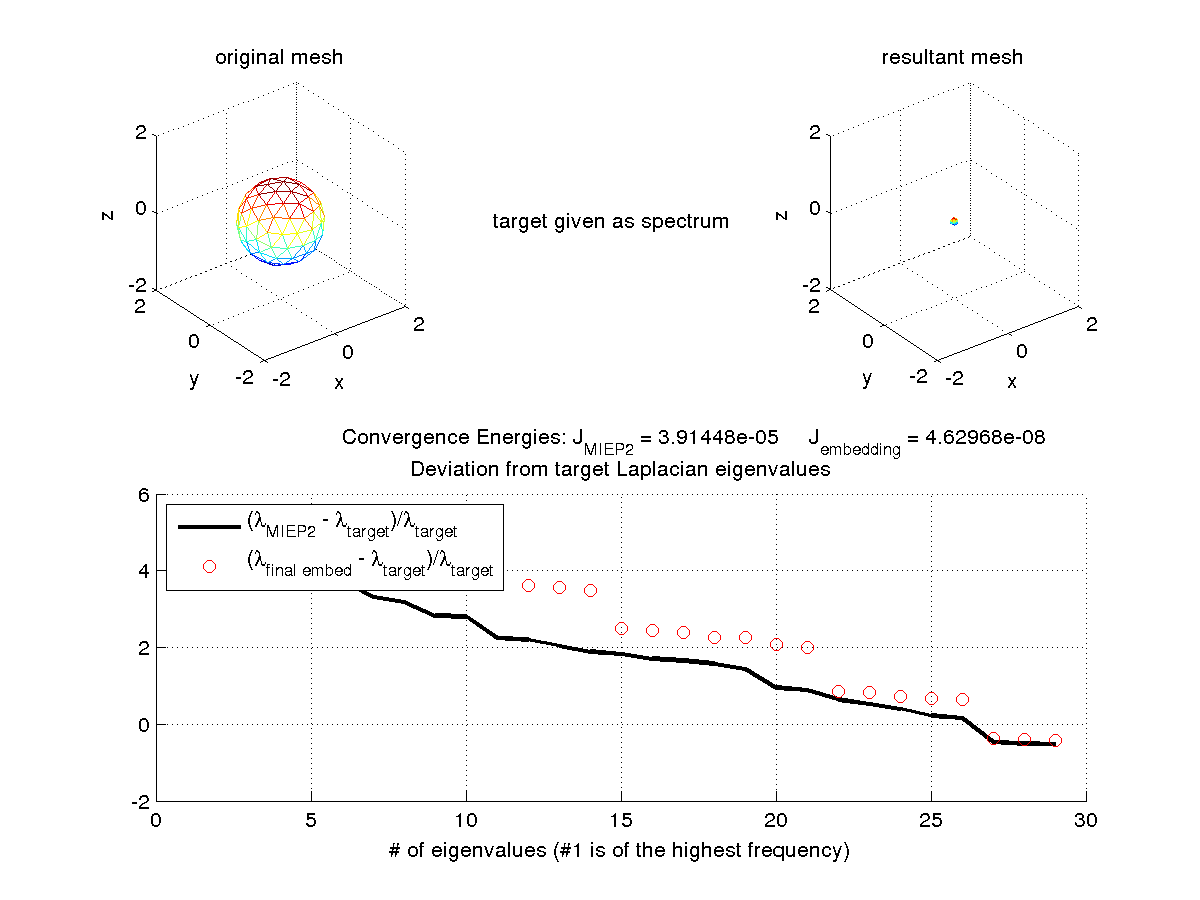
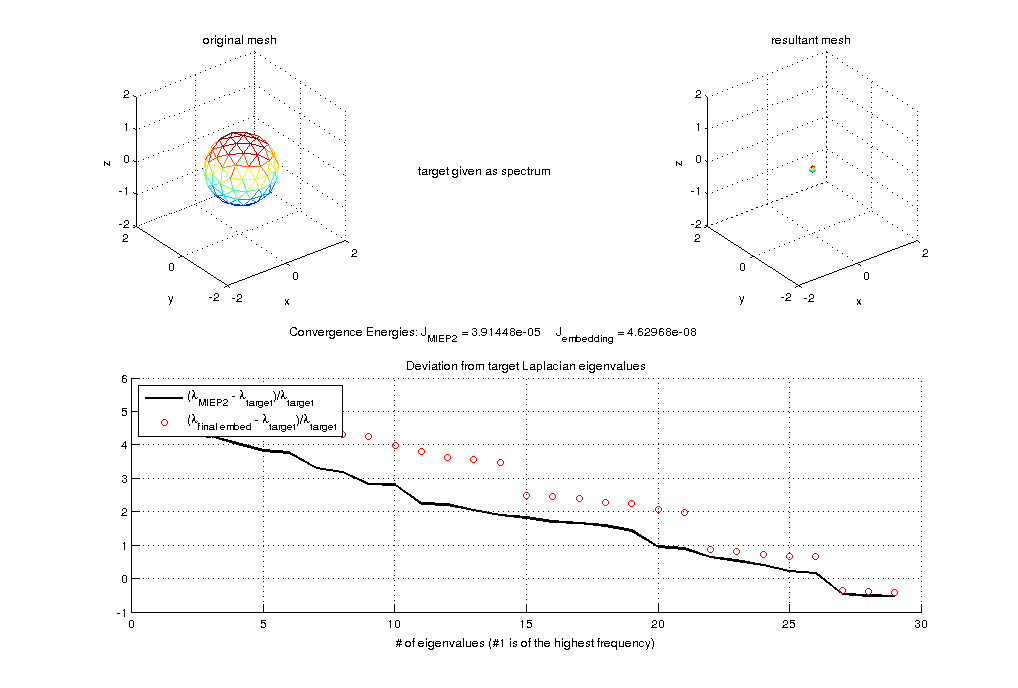
save fig as is

diff --git a/test_script.m b/test_script.m
@@ -67,7 +67,8 @@ for silly = 1:3
   if target_data.num == 3
     endname = [endname num2str(target_data.Nmcf,'_Nmcf%d')];
   end
-  saveas(figh,[endname '.png']);
+  hgexport(figh,[endname '.png'],...
+    hgexport('factorystyle'), 'Format', 'png'); 
   save([endname '.mat'],'v','v_T','v_end','f','f_T','s_end','s_T',...
     'D_0','D_T','D_endp','D_end','J_hist','Jc_hist');
 end
